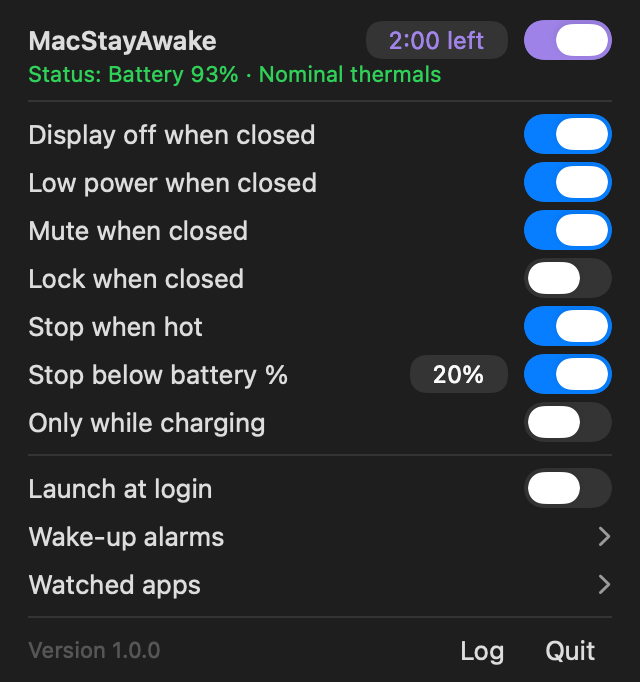
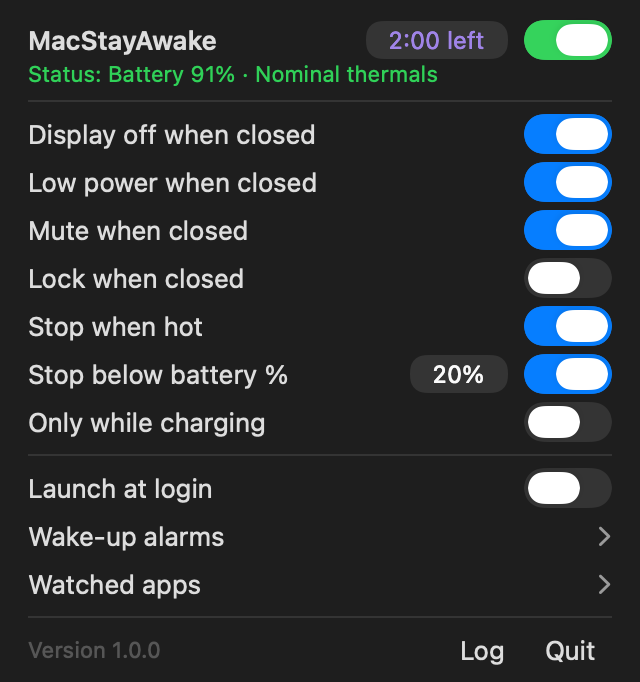
Use green for the header toggle
Change only the header switch tint to green and keep the running countdown purple. Refresh the menu screenshots.

Validation: signed build, inert active-state image inspection, and diff/plist checks. No behavior changes.

Changed region(s): [[0.3125, 0.0924, 0.6875, 0.1232], [0.8125, 0.0308, 0.9688, 0.0924]]

diff --git a/Sources/LidAwake/ContentView.swift b/Sources/LidAwake/ContentView.swift
@@ -134,7 +134,7 @@ struct ContentView: View {
                     .labelsHidden()
                     .toggleStyle(.switch)
                     .controlSize(.small)
-                    .tint(Color(nsColor: ModeIcon.awakeColor))
+                    .tint(.green)
                 }
                 .disabled(controller.isBusy || controller.isQuitting)
                 Text(status.text)
